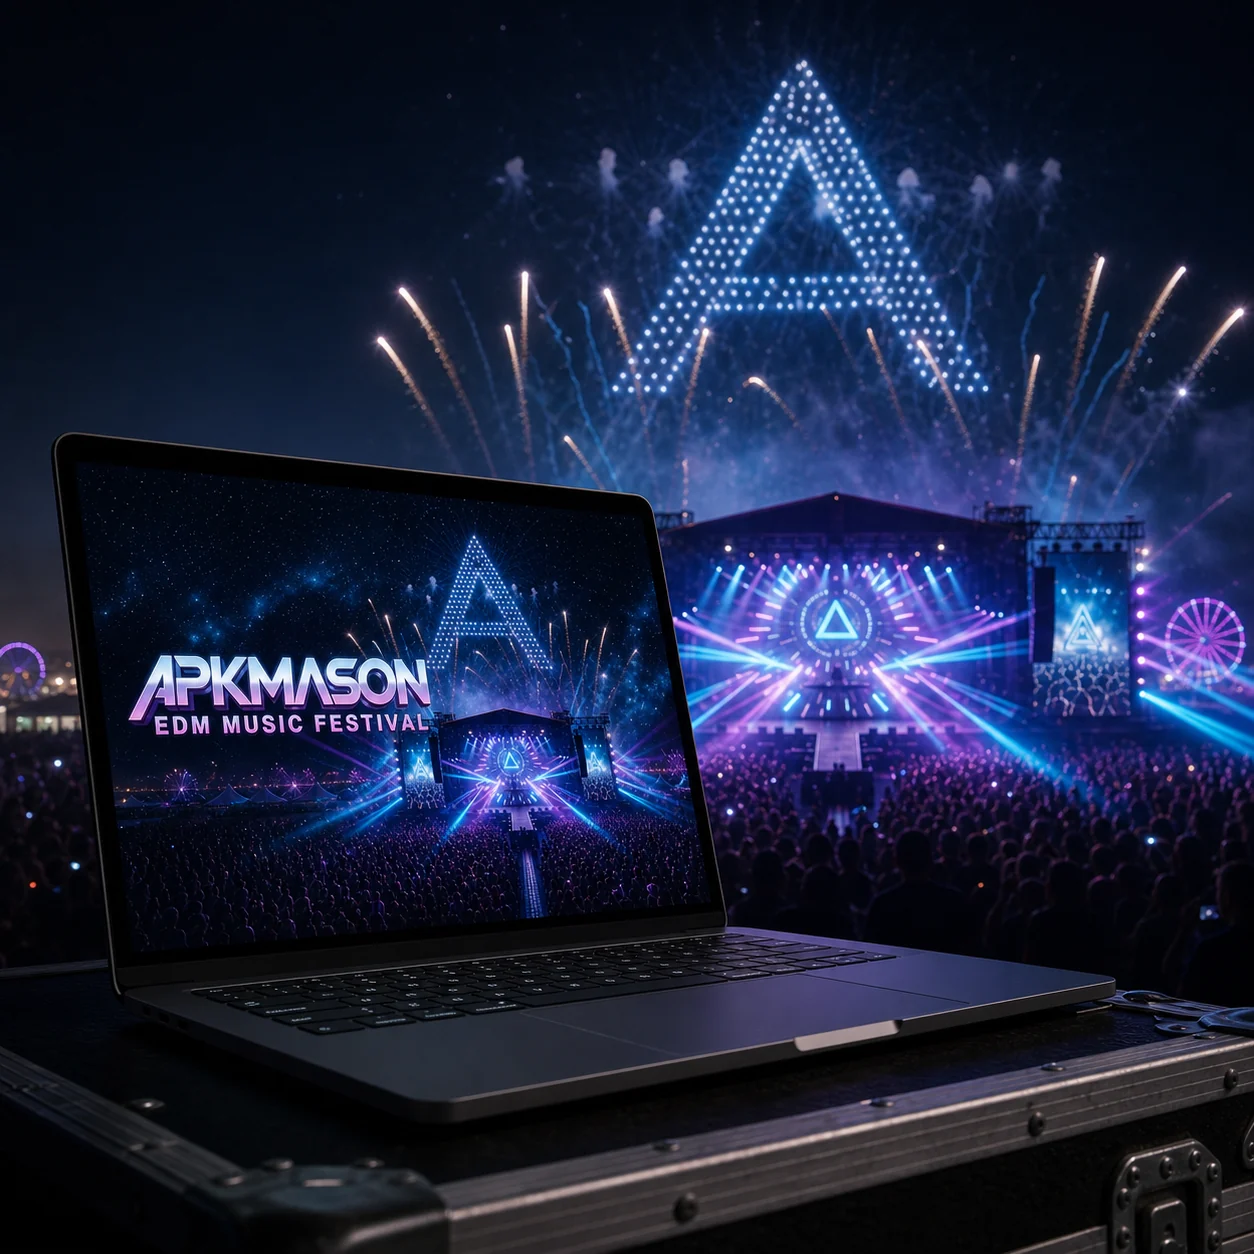
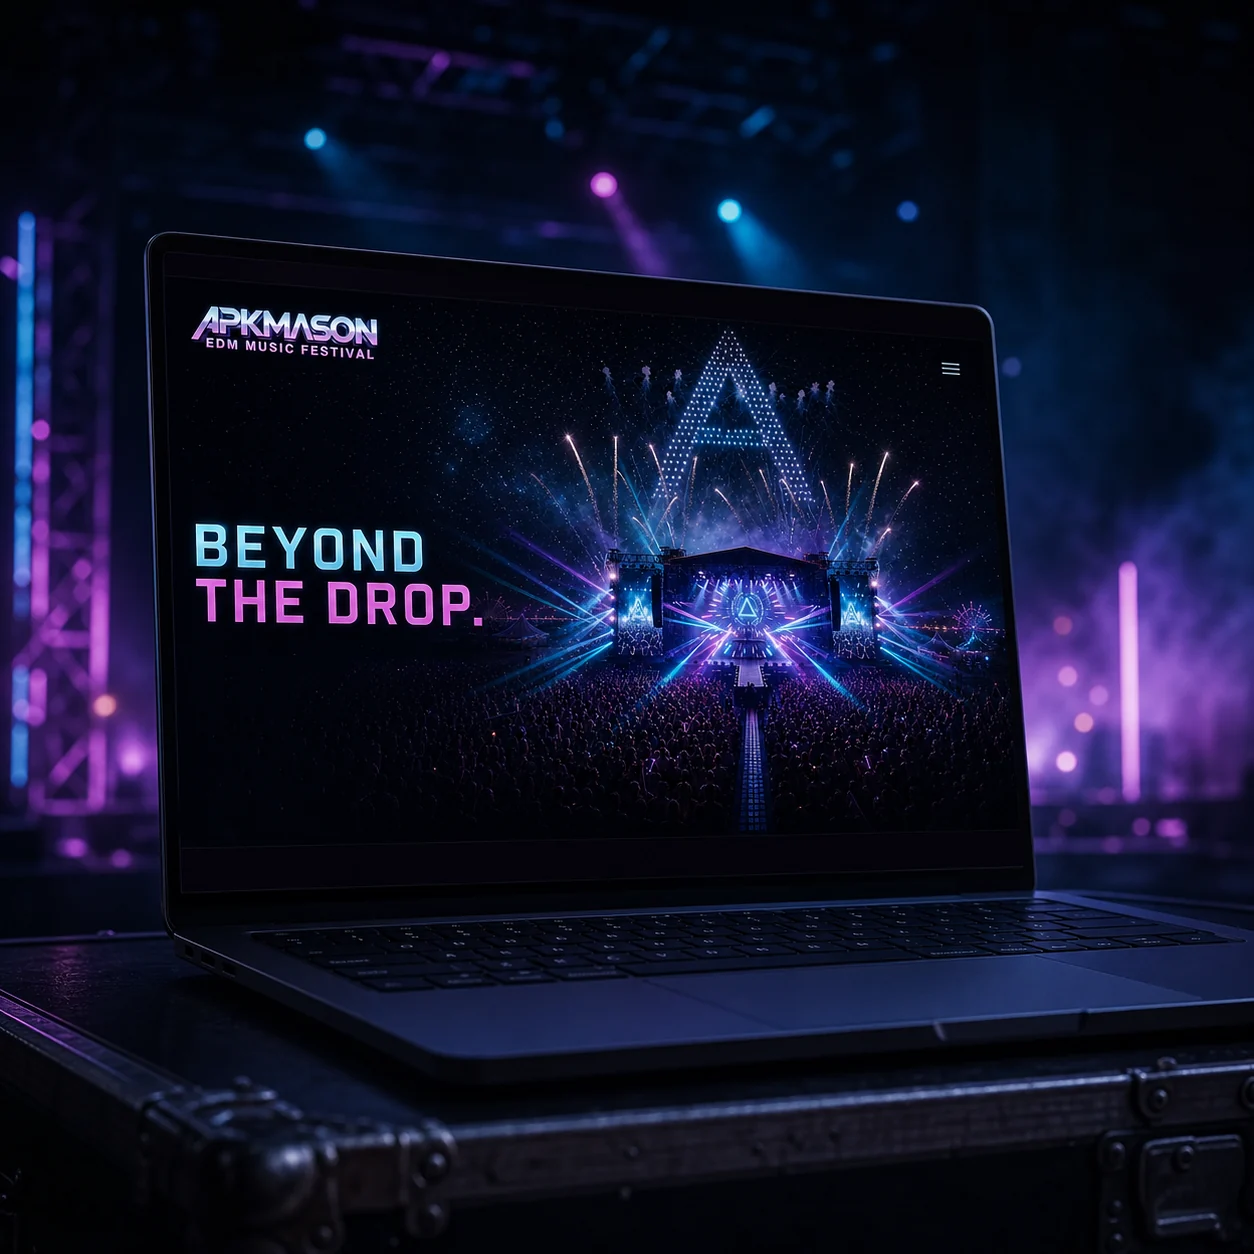
feat(projects): expand refreshed mockup collection

diff --git a/CHANGELOG.md b/CHANGELOG.md
@@ -8,11 +8,14 @@ stosują [Semantic Versioning](https://semver.org/).
 
 ### Changed
 
-- Dziesięć mockupów projektów — APK://GENESIS, BRIXCORE, Beyond the Door,
+- Siedemnaście mockupów projektów — APK://GENESIS, BRIXCORE, Beyond the Door,
   CAN//FORM, EDM Music Festival, THE VAULT, Skin Elixir, APKMASON ARC,
-  FRUIT ENERGY i Sfera — zastąpiono kadrami przygotowanymi na podstawie
-  aktualnych assetów źródłowych i zapisanymi jako zoptymalizowane WebP;
-  THE VAULT pokazuje bieżącą, jednoczęściową płytę drzwi otwieraną w prawo,
+  FRUIT ENERGY, Sfera, Evolution of the Phone, THE IRIS, Pure Form, From
+  Sand to Silicon, Inside the Internet, SPARK i ASCENT — zastąpiono kadrami
+  przygotowanymi na podstawie aktualnych assetów źródłowych i zapisanymi jako
+  zoptymalizowane WebP; THE VAULT
+  pokazuje bieżącą, jednoczęściową płytę drzwi otwieraną w prawo, a EDM
+  aktualną scenografię i identyfikację „BEYOND THE DROP.”,
 - „VOID DROP” zastąpił „Skin Elixir” na szóstej pozycji wyróżnionej
   siódemki; NEXUS-1 otwiera teraz archiwum, Skin Elixir pozostaje tuż za nim,
   a przywróconą „Mechanikę Czasu” umieszczono bezpośrednio po projekcie
